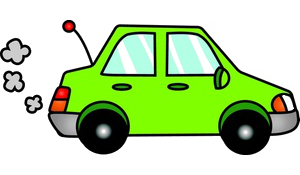
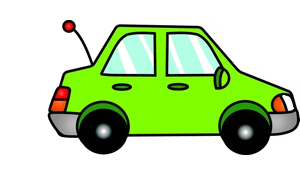
Animated car

Changed region(s): [[0.0, 0.4, 0.15, 0.6571], [0.0, 0.2, 0.12, 0.3714]]

diff --git a/app/assets/stylesheets/animate.scss b/app/assets/stylesheets/animate.scss
@@ -65,7 +65,7 @@ body{
   height: 300%;
   z-index: 0;
   top: 0%;
-  left: 35%;
+  left: 45%;
 }
 
 .cloud3{
@@ -75,7 +75,7 @@ body{
   height: 300%;
   z-index: 0;
   top: 7%;
-  left: 75%;
+  left: 90%;
 }
 
 .car{
@@ -83,4 +83,45 @@ body{
   top: 40%;
   left: 35%;
   z-index: 2;
+}
+
+.car::after{
+  content: "";
+  display: block;
+  width: 170px;
+  height: 170px;
+  background: url('Gas.png') no-repeat;
+  background-size: 170px;
+  position: absolute;
+  top: 50%;
+  left: -15%;
+  opacity: 0;
+  z-index: 2;
+}
+
+//keyframes
+@-webkit-keyframes bounce{
+ 50%{ -webkit-transform: rotate(.03deg) translateY(-2px) translateX(3px);}
+}
+
+@-webkit-keyframes gas-burn{
+  35%{}
+  60%{ opacity: 1;}
+  100%{-webkit-transform: translate(-15%, -15%) rotateZ(20deg);}
+}
+
+
+@-webkit-keyframes background{
+  0%{background-position:;}
+  60%{ opacity: 1;}
+  100%{-webkit-transform: translate(-15%, -15%) rotateZ(20deg);}
+}
+
+//animations
+.car{
+  -webkit-animation: bounce 1s ease-in-out infinite;
+}
+
+.car::after{
+  -webkit-animation: gas-burn 3s 2s ease-in-out infinite;
 }
